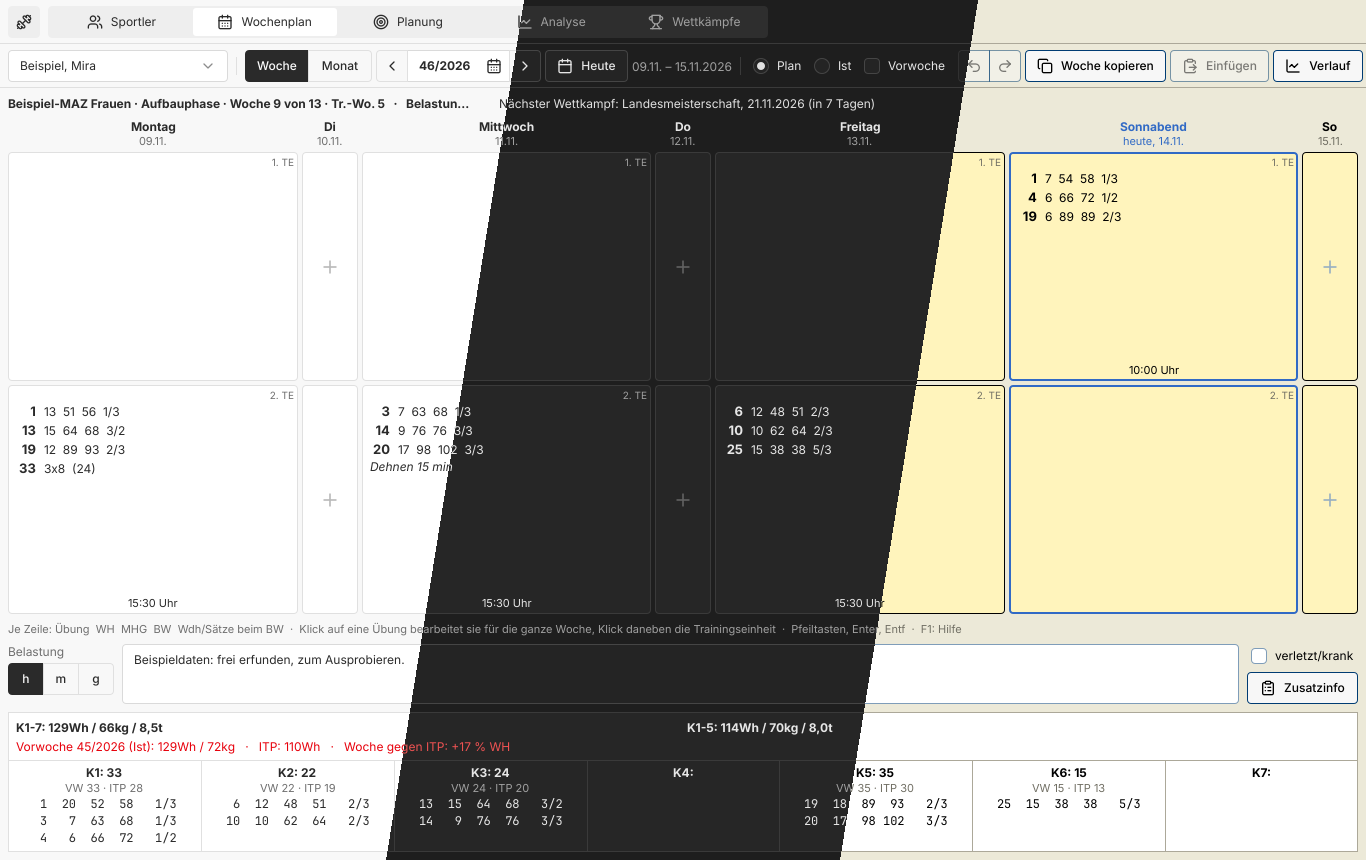
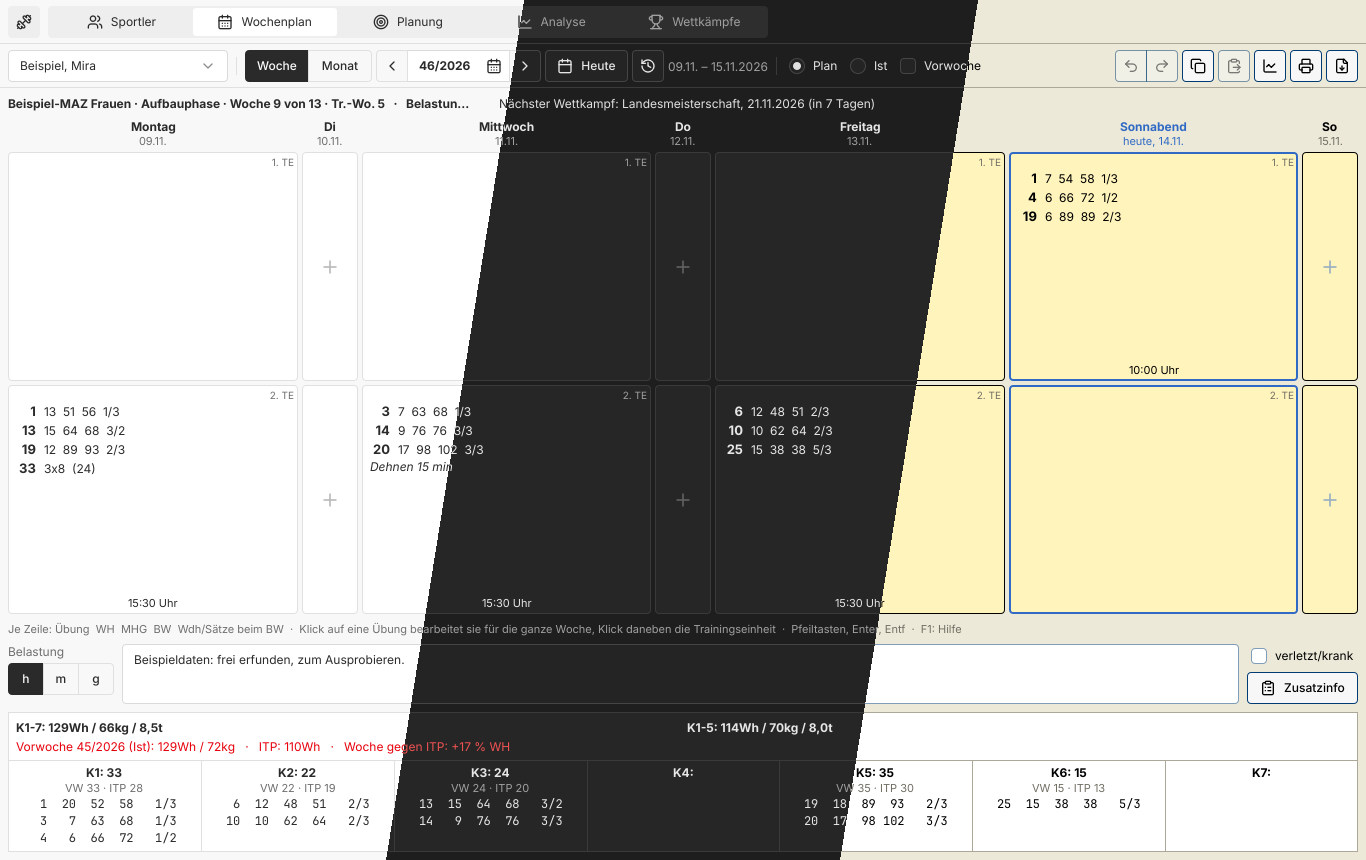
Jump to the last entry and fit the week toolbar
IDA has a "Letzter Eintrag" that shows the latest week with data. The
week view now has it beside "Heute", as a clock icon and Ctrl+End: the
latest week with sessions of the variant shown (the last planned week
in the Plan, the last trained one in the Ist), in the month view that
week's month.

Adding the icon showed that the week toolbar did not fit a 1366 px
window, and had not before: "Drucken" and "PDF" lay past its right
edge, out of reach. Below 1600 px the buttons on the right now show
their icons only, their names as tips, and the week's dates are the
first to shorten when there is still too little room.

Changed region(s): [[0.4612, 0.0605, 1.0, 0.1209]]

diff --git a/qml/WeekPage.qml b/qml/WeekPage.qml
@@ -208,6 +208,21 @@ Page {
     property var noteOwner: null
 
     readonly property bool hasAthlete: athleteId !== ""
+    // The full toolbar needs about 1570 px; narrower, the buttons on its
+    // right show their icons only, their names as tips
+    readonly property bool compactBar: width < 1600
+
+    // The latest week with sessions of the variant shown; in the month
+    // view its month. Without any, nothing happens.
+    function showLastEntry() {
+        const m = Store.lastEntryWeek(athleteId, variant)
+        if (m === "")
+            return
+        if (monthMode)
+            monthDay = m
+        else
+            monday = m
+    }
 
     // Picks the first athlete while none is chosen; off in the window,
     // which chooses for all pages
@@ -412,6 +427,11 @@ Page {
         onActivated: page.monthMode ? page.shiftMonth(1) : page.monday = Store.addWeeks(page.monday, 1)
     }
     Shortcut {
+        sequence: "Ctrl+End"
+        enabled: page.shortcutsActive && page.hasAthlete
+        onActivated: page.showLastEntry()
+    }
+    Shortcut {
         sequences: [StandardKey.Print]
         enabled: page.shortcutsActive && page.hasAthlete
         onActivated: page.printWeek()
@@ -509,6 +529,7 @@ Page {
 
     header: AppToolBar {
         RowLayout {
+            objectName: "weekBar"
             anchors.fill: parent
             anchors.leftMargin: 8
             anchors.rightMargin: 8
@@ -615,10 +636,29 @@ Page {
                 text: "Heute"
                 onClicked: page.monthMode ? page.monthDay = Store.today() : page.monday = Store.mondayOf(Store.today())
             }
+            // "Letzter Eintrag", as in IDA: the latest week with sessions
+            IconButton {
+                objectName: "lastEntryButton"
+                iconName: "history"
+                enabled: page.hasAthlete
+                toolTip: "Letzter Eintrag: die letzte Woche mit Einheiten (" + (page.variant === "I" ? "Ist" : "Plan")
+                         + "), Strg+Ende"
+                onClicked: page.showLastEntry()
+            }
+            // The week's dates: the first to give way (…) when the bar
+            // runs out of room, so its buttons always fit
             Label {
+                objectName: "weekRangeLabel"
                 visible: !page.monthMode
                 text: Store.weekRange(page.monday)
                 color: Styles.TokenInterface.semantics.text_muted
+                elide: Text.ElideRight
+                Layout.fillWidth: true
+                Layout.minimumWidth: 0
+                Layout.maximumWidth: implicitWidth
+                HoverHandler { id: rangeHover }
+                ToolTip.visible: rangeHover.hovered && truncated
+                ToolTip.text: text
             }
 
             ToolSeparator {}
@@ -687,16 +727,18 @@ Page {
             }
 
             IconButton {
+                objectName: "copyWeekButton"
                 visible: !page.monthMode
                 iconName: "copy"
-                text: "Woche kopieren"
+                text: page.compactBar ? "" : "Woche kopieren"
+                toolTip: page.compactBar ? "Woche kopieren" : ""
                 enabled: page.hasAthlete && page.weekData.empty === false
                 onClicked: if (page.savePanel()) Store.copyWeek(page.athleteId, page.monday, page.variant)
             }
             IconButton {
                 visible: !page.monthMode
                 iconName: "clipboard-paste"
-                text: "Einfügen"
+                text: page.compactBar ? "" : "Einfügen"
                 enabled: page.hasAthlete && Store.clipboardLabel !== ""
                 onClicked: {
                     if (!page.savePanel())
@@ -706,21 +748,23 @@ Page {
                     else
                         pasteConfirm.open()
                 }
-                ToolTip.visible: hovered && enabled
-                ToolTip.text: "Kopierte Woche einfügen: " + Store.clipboardLabel
+                ToolTip.visible: hovered && (enabled || page.compactBar)
+                ToolTip.text: enabled ? "Kopierte Woche einfügen: " + Store.clipboardLabel : "Einfügen"
             }
             IconButton {
                 objectName: "loadChartButton"
                 visible: !page.monthMode
                 iconName: "chart-line"
-                text: "Verlauf"
+                text: page.compactBar ? "" : "Verlauf"
                 enabled: page.hasAthlete
-                toolTip: "Belastungsverlauf: diese Woche im MAZ, gegen das ITP"
+                toolTip: (page.compactBar ? "Verlauf. " : "") + "Belastungsverlauf: diese Woche im MAZ, gegen das ITP"
                 onClicked: loadChart.show(page.athleteId, page.monday, "", 1)
             }
             IconButton {
+                objectName: "printButton"
                 iconName: "printer"
-                text: "Drucken"
+                // The month's bar has room for it
+                text: page.compactBar && !page.monthMode ? "" : "Drucken"
                 enabled: page.hasAthlete
                 toolTip: page.monthMode ? "Den Monat drucken" : "Wochenplan drucken (Strg+P)"
                 onClicked: page.monthMode ? Analysis.printReport(monthView.monthData.report) : page.printWeek()
@@ -728,7 +772,8 @@ Page {
             IconButton {
                 visible: !page.monthMode
                 iconName: "file-down"
-                text: "PDF"
+                text: page.compactBar ? "" : "PDF"
+                toolTip: "Wochenplan als PDF speichern"
                 enabled: page.hasAthlete
                 onClicked: {
                     page.saveNote()

diff --git a/tests/tst_lastentry.qml b/tests/tst_lastentry.qml
@@ -1,0 +1,88 @@
+import QtQuick
+import QtTest
+import Trainingsplaner
+
+// "Letzter Eintrag": a click (or Ctrl+End) shows the latest week with
+// sessions of the variant shown, in the month view its month
+Item {
+    width: 1366
+    height: 860
+
+    WeekPage {
+        id: page
+        anchors.fill: parent
+    }
+
+    TestCase {
+        name: "LastEntry"
+        when: windowShown
+
+        property string athlete
+
+        function session(monday, variant) {
+            Store.saveSession(athlete, monday, variant, { day: 2, number: 1, entries: [
+                { kind: 0, exercise: 1, steps: [{ kg: 40, reps: 3, sets: 2 }] }] })
+        }
+
+        function initTestCase() {
+            athlete = Store.saveAthlete({ lastName: "Letzte", firstName: "Lea", sex: 1 })
+            compare(Store.lastEntryWeek(athlete, "P"), "")
+            // Done until week 10, planned until week 14 of 2035
+            session("2035-02-26", "I")
+            session("2035-03-05", "I")
+            session("2035-03-05", "P")
+            session("2035-04-02", "P")
+            page.athleteId = athlete
+            page.monday = "2026-11-09"
+        }
+
+        function cleanupTestCase() {
+            Store.removeAthlete(athlete)
+        }
+
+        function test_1_store() {
+            compare(Store.lastEntryWeek(athlete, "P"), "2035-04-02")
+            compare(Store.lastEntryWeek(athlete, "I"), "2035-03-05")
+            compare(Store.lastEntryWeek("", "P"), "")
+        }
+
+        function test_2_button() {
+            const button = findChild(page, "lastEntryButton")
+            verify(button.enabled)
+            page.variant = "P"
+            mouseClick(button)
+            compare(page.monday, "2035-04-02")
+            // The Ist: its own last week
+            page.variant = "I"
+            page.monday = "2026-11-09"
+            mouseClick(button)
+            compare(page.monday, "2035-03-05")
+        }
+
+        function test_3_shortcut() {
+            page.variant = "P"
+            page.monday = "2026-11-09"
+            page.forceActiveFocus()
+            keyClick(Qt.Key_End, Qt.ControlModifier)
+            tryCompare(page, "monday", "2035-04-02")
+        }
+
+        // At 1366 px the bar fits: its right buttons as icons only
+        function test_5_barFits() {
+            const bar = findChild(page, "weekBar")
+            verify(page.compactBar)
+            verify(bar.implicitWidth <= bar.width, bar.implicitWidth + " > " + bar.width)
+            compare(findChild(page, "copyWeekButton").text, "")
+            compare(findChild(page, "copyWeekButton").toolTip, "Woche kopieren")
+        }
+
+        function test_4_month() {
+            page.variant = "P"
+            page.showMonth(true)
+            page.monthDay = "2026-11-14"
+            mouseClick(findChild(page, "lastEntryButton"))
+            compare(page.monthDay, "2035-04-02")
+            page.showMonth(false)
+        }
+    }
+}

diff --git a/qml/HelpDialog.qml b/qml/HelpDialog.qml
@@ -14,6 +14,7 @@ AppDialog {
 
     readonly property var keys: [
         ["Strg+← / Strg+→", "Vorige / nächste Woche"],
+        ["Strg+Ende", "Letzter Eintrag: die letzte Woche mit Einheiten"],
         ["Pfeiltasten", "Zwischen den Trainingseinheiten wechseln"],
         ["Enter", "Trainingseinheit neben der Woche bearbeiten"],
         ["Entf", "Trainingseinheit löschen (mit Rückfrage)"],

diff --git a/src/store.h b/src/store.h
@@ -222,6 +222,9 @@ public:
     //   loadText: the load as h / m / g (Planning::loadText)
     //   next: the next competition from the week's Monday on: {has, name, date, days}
     Q_INVOKABLE QVariantMap weekContext(const QString &athleteId, const QString &monday) const;
+    // "Letzter Eintrag": the Monday ("yyyy-MM-dd") of the latest week with
+    // a session of the variant ("P" or "I"), "" without any
+    Q_INVOKABLE QString lastEntryWeek(const QString &athleteId, const QString &variant) const;
     // A month as weeks for the month view, for one athlete or (allAthletes)
     // the competitions of all athletes chosen in the settings' filter:
     //   {title, weeks: [{monday, label, load, position, countdown, whPlan, whActual, phase,

diff --git a/src/database.cpp b/src/database.cpp
@@ -669,6 +669,17 @@ QStringList recentContents(const QString &athleteId, int kind, int exercise, int
     return list;
 }
 
+QDate lastSessionWeek(const QString &athleteId, Variant variant)
+{
+    QSqlQuery q(db());
+    q.prepare(QStringLiteral("SELECT MAX(monday) FROM session_entries WHERE athlete_id = ? AND variant = ?"));
+    q.addBindValue(athleteId);
+    q.addBindValue(variantString(variant));
+    if (!exec(q) || !q.next())
+        return {};
+    return QDate::fromString(q.value(0).toString(), Qt::ISODate);
+}
+
 QList<WeightLine> weightLines(const QString &athleteId, Variant variant, const QDate &fromMonday,
                               const QDate &toMonday)
 {

diff --git a/src/store.cpp b/src/store.cpp
@@ -1606,6 +1606,14 @@ QVariantMap Store::competitionTrend(const QString &athleteId, int fromYear, int 
     return result;
 }
 
+QString Store::lastEntryWeek(const QString &athleteId, const QString &variant) const
+{
+    if (athleteId.isEmpty())
+        return {};
+    const QDate m = Database::lastSessionWeek(athleteId, variant == QLatin1String("I") ? Variant::Actual : Variant::Plan);
+    return m.isValid() ? m.toString(Qt::ISODate) : QString();
+}
+
 QVariantMap Store::weekContext(const QString &athleteId, const QString &monday) const
 {
     QVariantMap result;

diff --git a/src/database.h b/src/database.h
@@ -46,6 +46,9 @@ int sessionCount(const QString &athleteId);
 
 // Weeks and sessions
 Week loadWeek(const QString &athleteId, const QDate &monday, Variant variant);
+// The Monday of the latest week with a session of the variant; invalid
+// without any
+QDate lastSessionWeek(const QString &athleteId, Variant variant);
 bool saveSession(const QString &athleteId, const QDate &monday, Variant variant,
                  const Session &session);
 bool removeSession(const QString &athleteId, const QDate &monday, Variant variant, int day,

diff --git a/docs/HANDBUCH.md b/docs/HANDBUCH.md
@@ -124,12 +124,20 @@ Bemerkung und die Auswertung der Woche.
 - **Woche / Monat** umschalten (Monat: [Abschnitt 4](#4-monat-und-wettkampftermine)).
 - **‹ 46/2026 ›** blättert eine Woche zurück oder vor (auch Strg+← / Strg+→),
   das Kalender-Symbol wählt eine Woche, **Heute** springt zur aktuellen.
+  Das Uhr-Symbol daneben, **Letzter Eintrag** (Strg+Ende), springt zur
+  letzten Woche, in der es Einheiten gibt: im Plan zur letzten geplanten,
+  im Ist zur letzten trainierten, im Monat zu deren Monat.
 - **Plan / Ist**: die geplante oder die tatsächlich trainierte Woche.
 - **Vorwoche** zeigt die Woche davor über der aktuellen.
 - **Rückgängig / Wiederholen** (Strg+Z / Strg+Y).
 - **Woche kopieren / Einfügen** überträgt eine ganze Woche, auch zu einem
   anderen Sportler.
 - **Verlauf** öffnet den Belastungsverlauf ([Abschnitt 5](#5-belastungsverlauf)).
+- **Drucken** und **PDF** geben den Wochenplan aus (siehe *Drucken* unten).
+
+Ist das Fenster schmaler als etwa 1600 Pixel, zeigen die Knöpfe rechts
+nur ihr Symbol; ihr Name steht beim Darüberfahren. Wird es noch enger,
+kürzt die Leiste zuerst die Tage der Woche neben dem Uhr-Symbol.
 
 Darunter fasst eine Zeile die Woche zusammen:
 
@@ -656,6 +664,7 @@ die der Junioren und Aktiven.
 |---|---|
 | Strg+1 … Strg+5 | Sportler, Wochenplan, Planung, Analyse, Wettkämpfe |
 | Strg+← / Strg+→ | Woche zurück / vor |
+| Strg+Ende | Letzter Eintrag: die letzte Woche mit Einheiten |
 | Strg+Z / Strg+Y | rückgängig / wiederholen |
 | Strg+S | Einheit oder Formular speichern |
 | Strg+P | Drucken (mit Vorschau) |

diff --git a/docs/RESEARCH-IDA-RTK.md b/docs/RESEARCH-IDA-RTK.md
@@ -131,7 +131,7 @@ M days, L a week or more.
 | # | Idea | Source | Size |
 |---|---|---|---|
 | 13 | Print: tonnage per exercise line, AMKT WH in the header, creation date (done, November 2026: a "t" column as an option of Ausdruck, AMKT WH beside K1-7 and K1-5 in the week's figures, "erstellt am" at the top) | IDA p.17 | S |
-| 14 | "Letzter Eintrag": jump to the last week with data | IDA p.14 | S |
+| 14 | "Letzter Eintrag": jump to the last week with data (done, November 2026: a button beside "Heute" and Ctrl+End, to the latest week with sessions of the variant shown; the coach's wish came with it: the week's load, "Belastung: hoch/mittel/gesenkt", under the title of the printout) | IDA p.14 | S |
 | 15 | A note per exercise line, not only per session | IDA p.15 | S–M |
 | 16 | Colour per K group on the lines of week and month | IDA p.15–16 | S |
 | 17 | Further calendar entries: Lehrgang, Diagnostik/Test, with a type filter | IDA p.14 | M |
